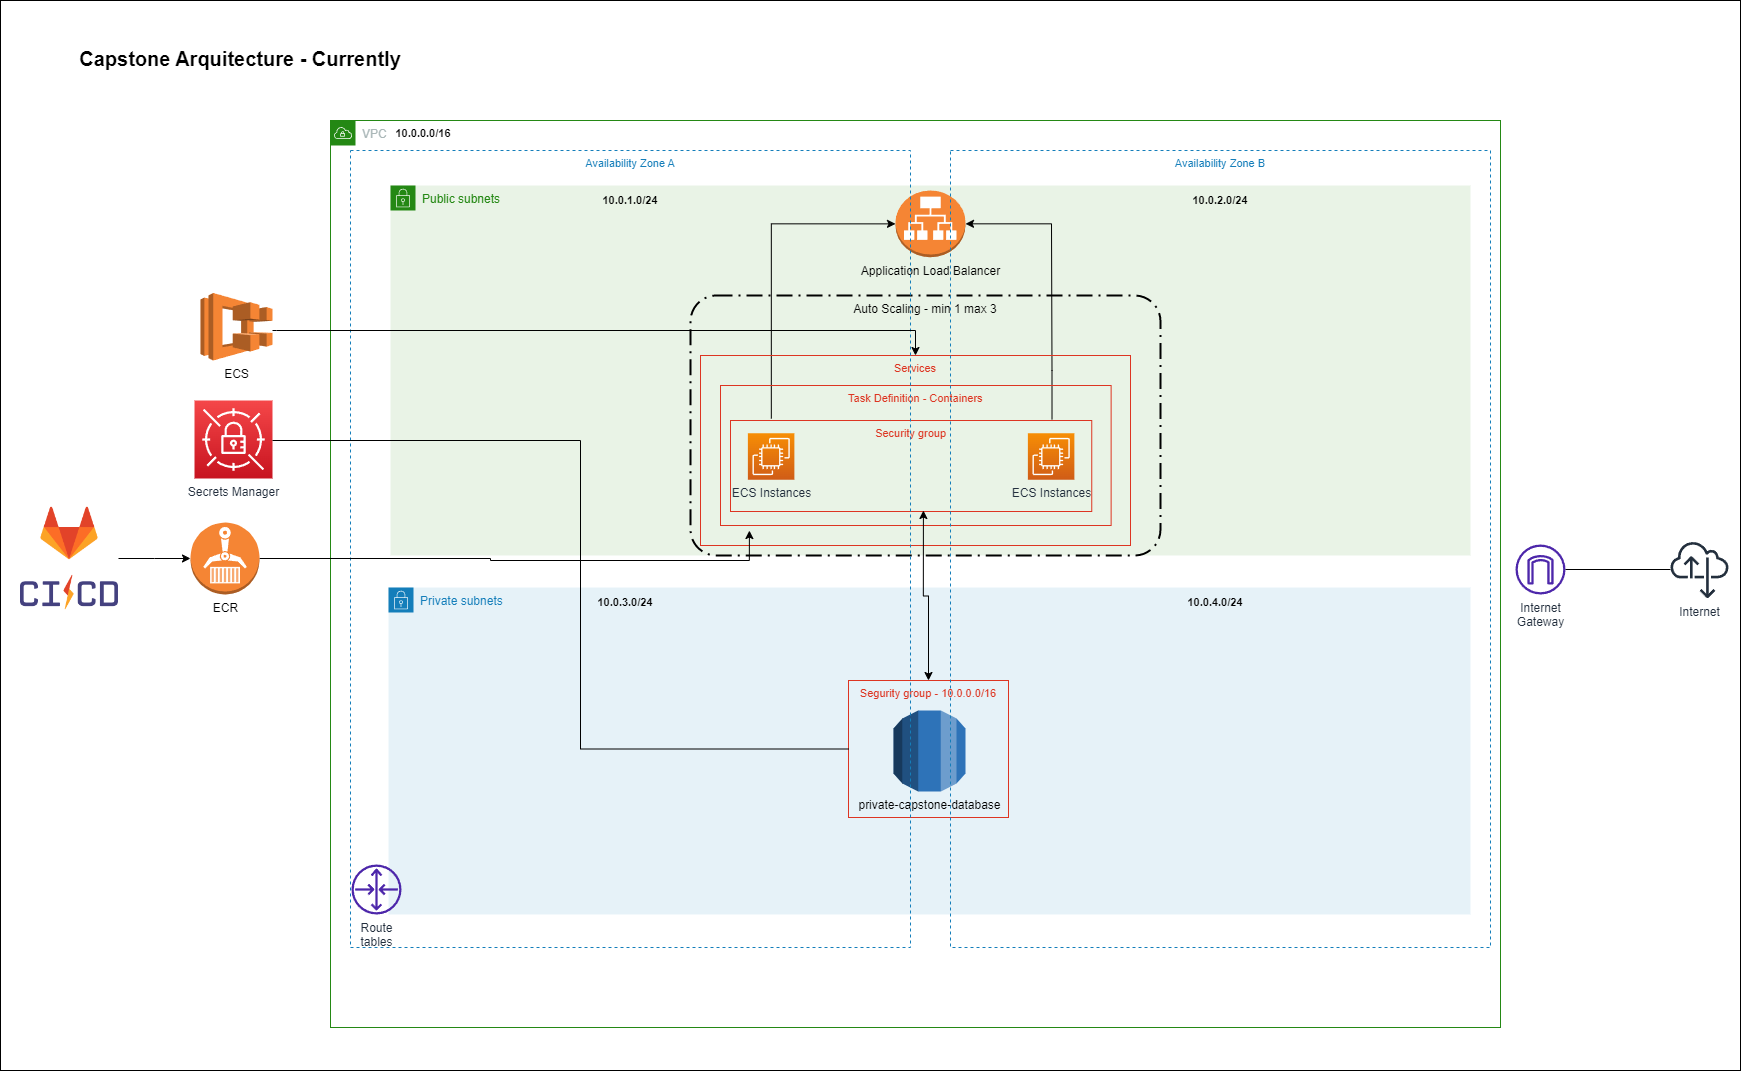
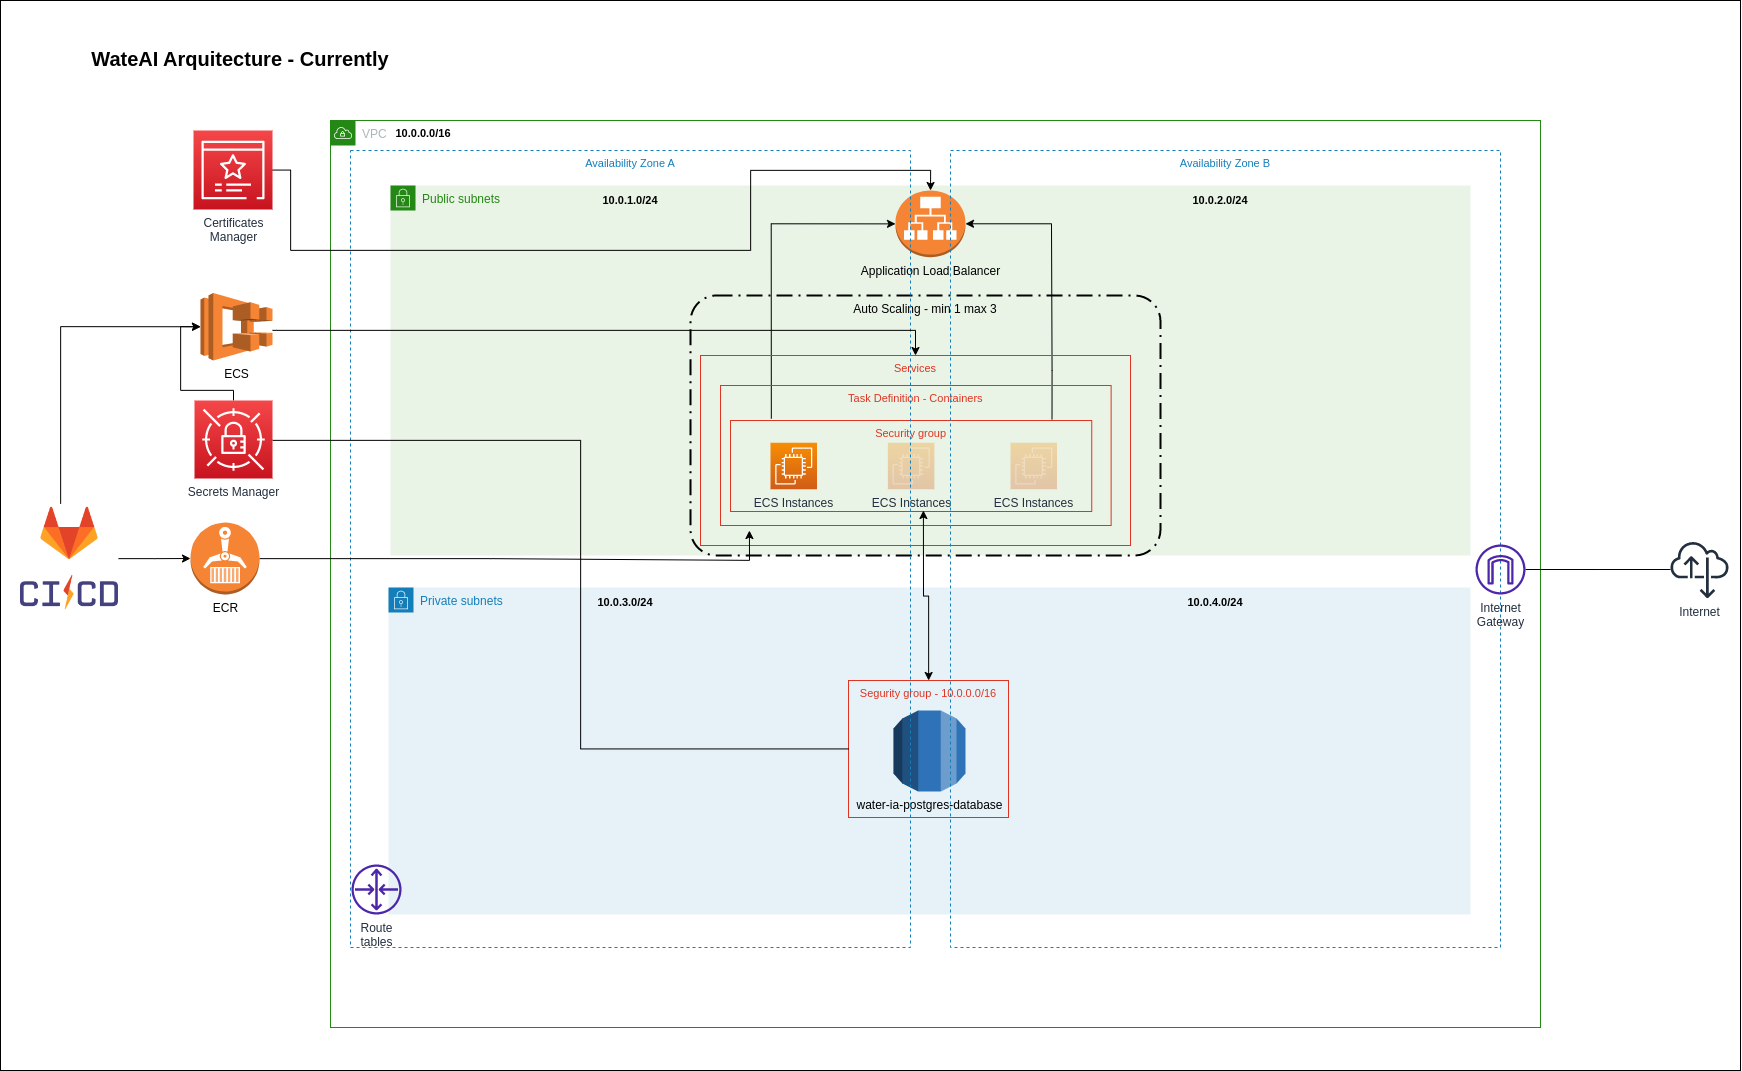
updated readme

diff --git a/README.md b/README.md
@@ -1,6 +1,6 @@
-# Infrastructure - documentation.
+# WaterAI - Infrastructure - documentation.
 ```
-on this repository you can found all code relationated with infrastructure for a bootcamp project
+on this repository you can found all code relationated with infrastructure for a water ai project
 ```
 
 ### Pre-requisites.
@@ -15,9 +15,9 @@ on this repository you can found all code relationated with infrastructure for a
 ![diagram](./assets/diagram.png)
 
 
-### 1.- Configure your new AWS profile for terraform (`free-account` is an example name, you can use the same).
+### 1.- Configure your new AWS profile for terraform (`new-account` is an example name, you can use the same).
 
-    aws configure --profile free-account
+    aws configure --profile new-account
 
 #### Watch profiles created.
 
@@ -25,7 +25,7 @@ on this repository you can found all code relationated with infrastructure for a
 
 #### Example to use a profile.
 
-    aws ec2 describe-instances --profile free-account
+    aws ec2 describe-instances --profile new-account
 
 ### 2.- Configure AWS infrastructure with terraform.
 
@@ -47,9 +47,3 @@ then copy the output called `dns_name` and enjoy!
 ### 3.- Delete infrastructure created.
 
     terraform destroy
-
-### 4.- improvements
-
-    - Attach a DNS Record
-    - Attach a SSL certificate for more security.
-    - Be more explicit on the documentation description.
